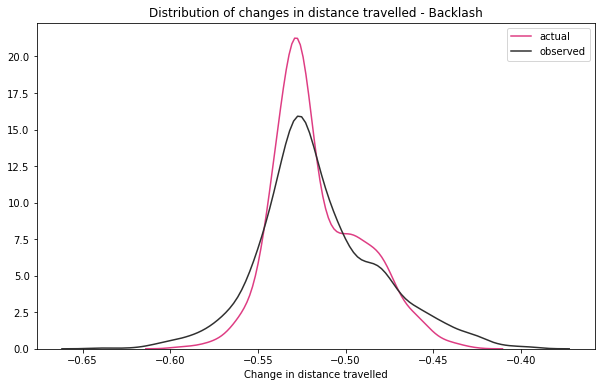
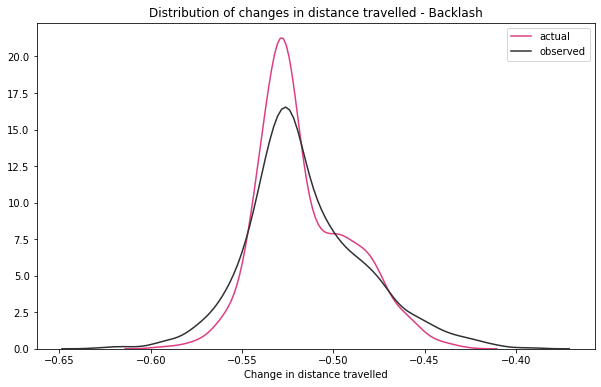
fixed experiment 6

Changed region(s): [[0.0899, 0.093, 0.8985, 0.9612], [0.5391, 0.8992, 0.599, 0.9612], [0.3894, 0.8992, 0.4493, 0.9612]]

diff --git a/simulation_tools.py b/simulation_tools.py
@@ -483,10 +483,10 @@ class Metric:
             def _actual(df):
                 df['measure'] = df[['worktravel','socialtravel','grocerytravel']].sum(axis=1)
                 return df
-            def _observed(df):
+            def _observed(df, rate):
                 df['measure'] = df[['worktravel','socialtravel','grocerytravel']].sum(axis=1)
                 df['measure'] = np.where(df['phoneownership']==1,df['measure'],np.nan)
-                df['backlash'] = np.random.binomial(1,0.35,len(df))
+                df['backlash'] = np.random.binomial(1,rate,len(df))
                 df['measure'] = np.where(df['backlash']==0,df['measure'],np.nan)
                 return df
             def _measure(vals):
@@ -501,8 +501,8 @@ class Metric:
         results['actual_after'] = _actual(after_people).groupby(group_cols,sort=True)['measure'].apply(_measure)
         results['actual_delta'] = results['actual_after'] - results['actual_before']
         results['actual_change'] = results['actual_delta']/results['actual_before']
-        results['observed_before'] = _observed(before_people).groupby(group_cols,sort=True)['measure'].apply(_measure)
-        results['observed_after'] = _observed(after_people).groupby(group_cols,sort=True)['measure'].apply(_measure)
+        results['observed_before'] = _observed(before_people, 0).groupby(group_cols,sort=True)['measure'].apply(_measure)
+        results['observed_after'] = _observed(after_people, 0.35).groupby(group_cols,sort=True)['measure'].apply(_measure)
         results['observed_delta'] = results['observed_after'] - results['observed_before']
         results['observed_change'] = results['observed_delta']/results['observed_before']
             
